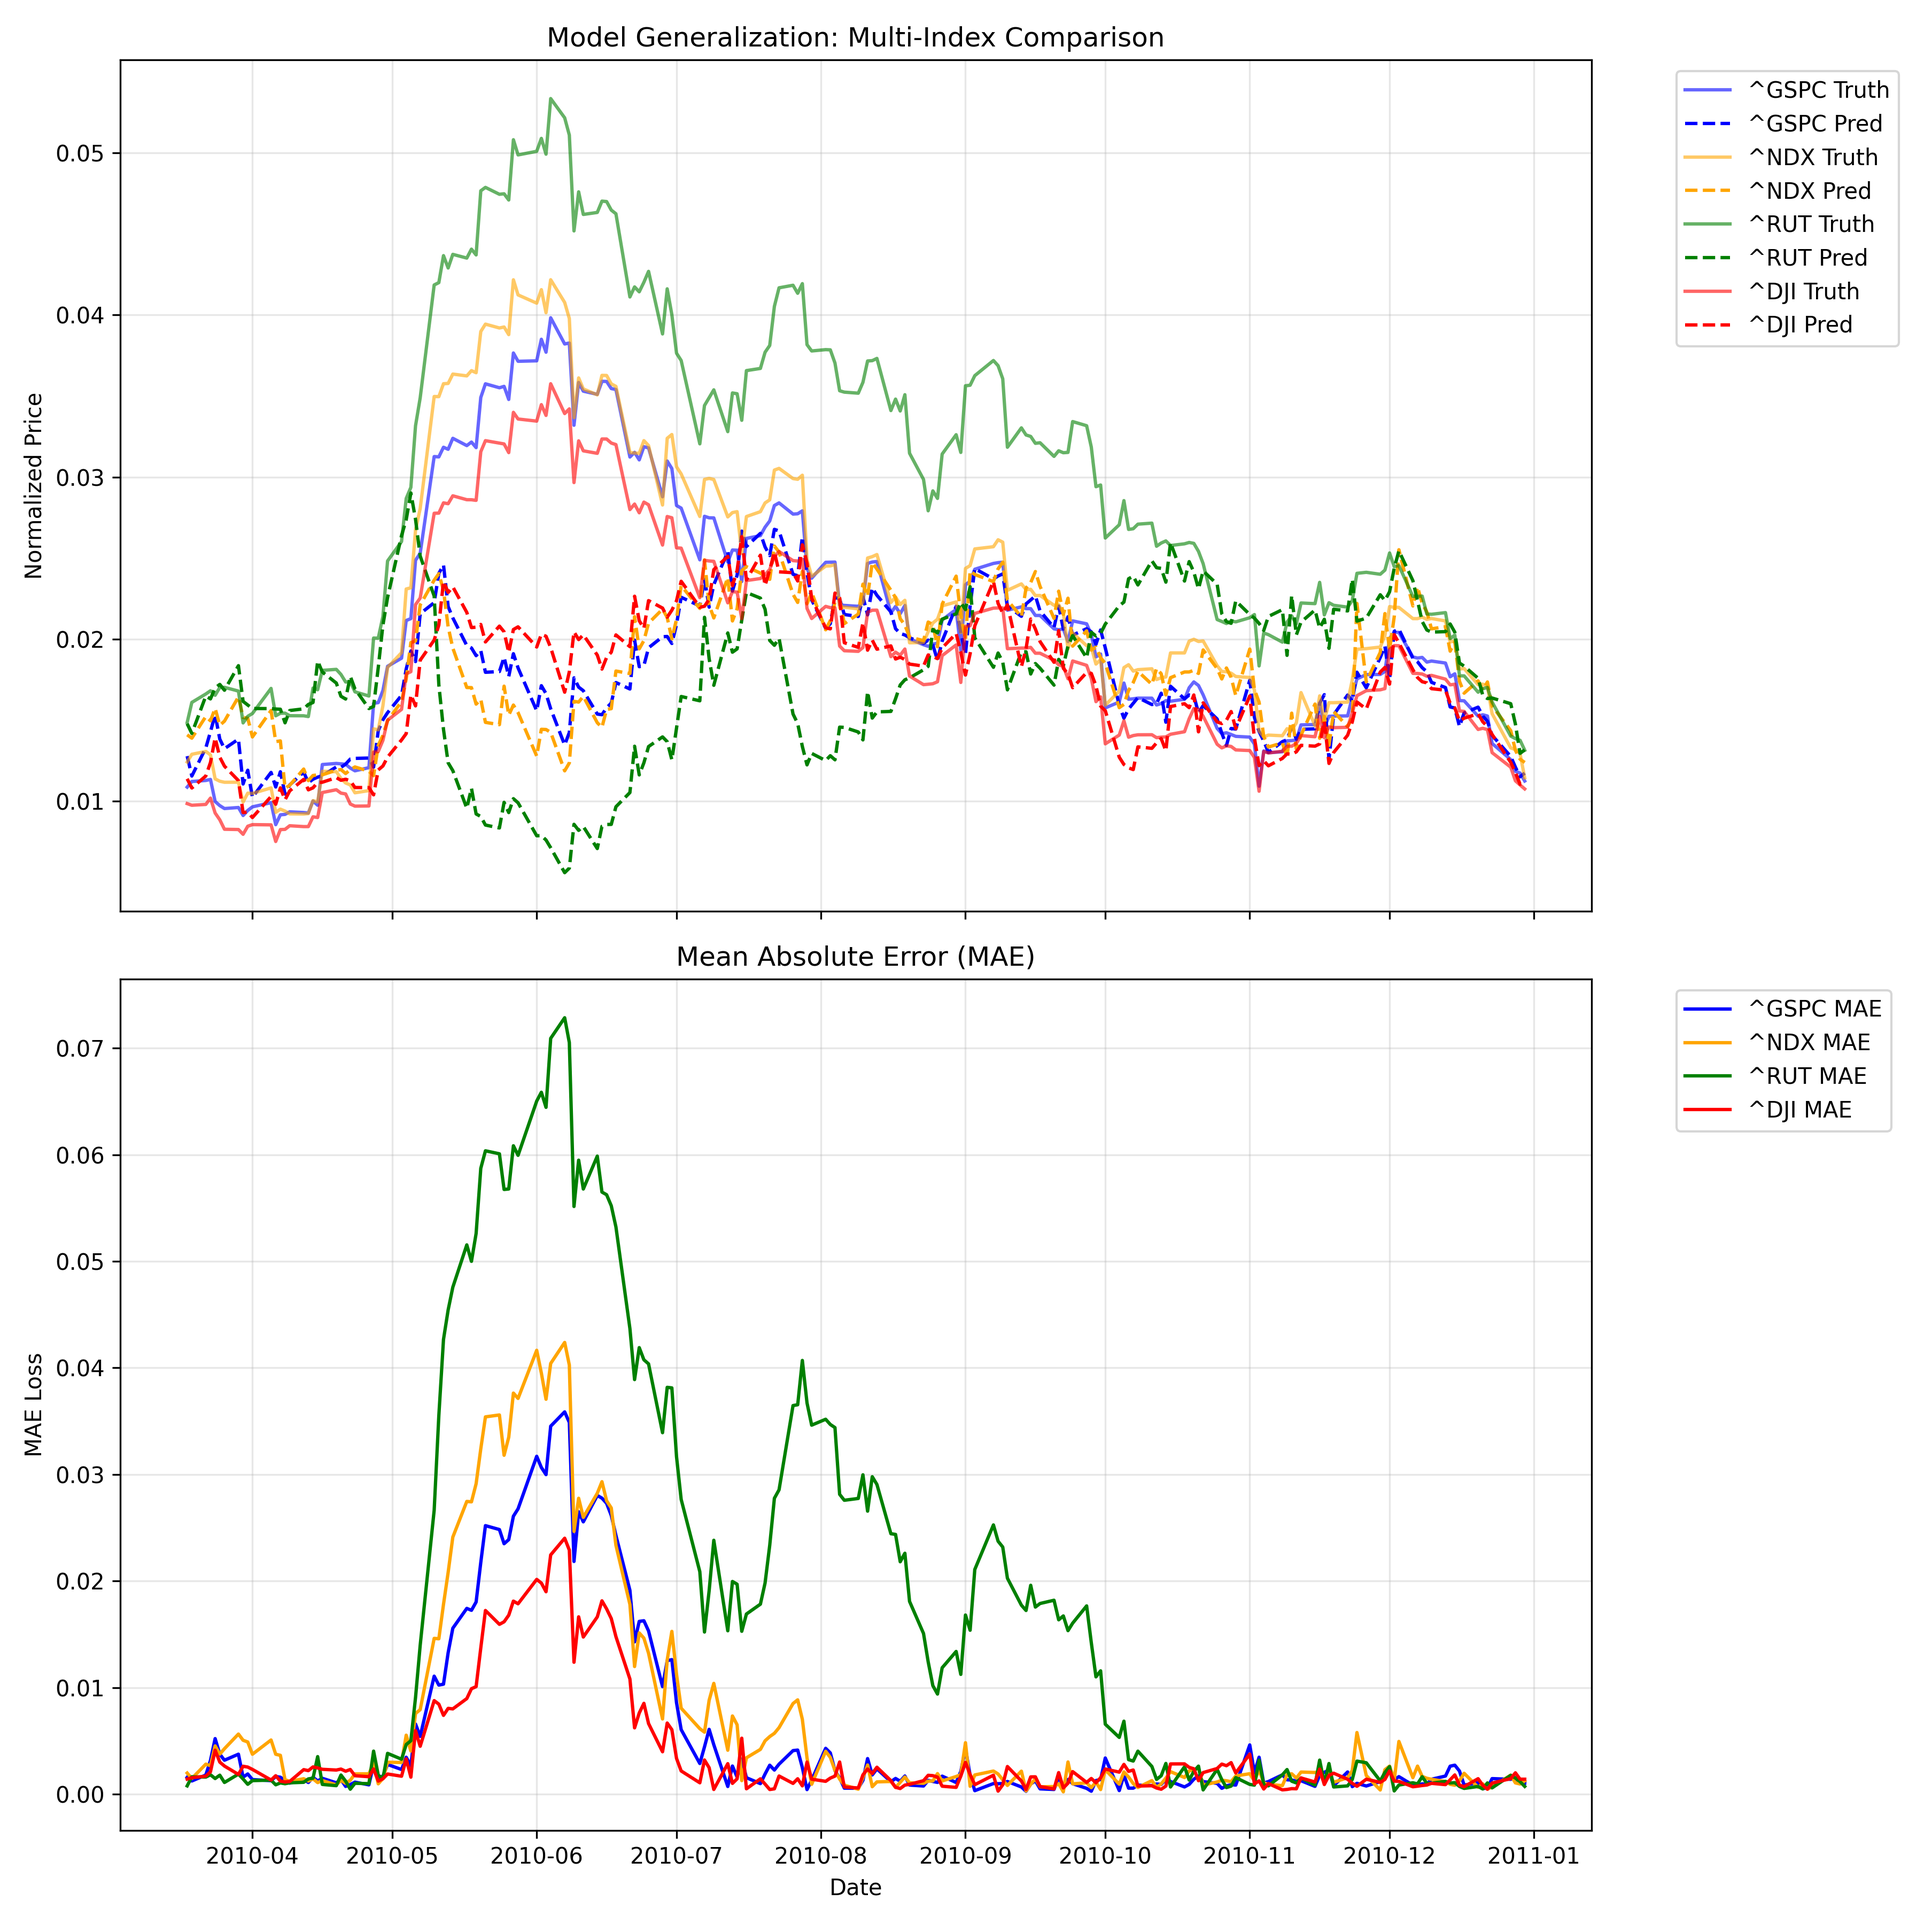
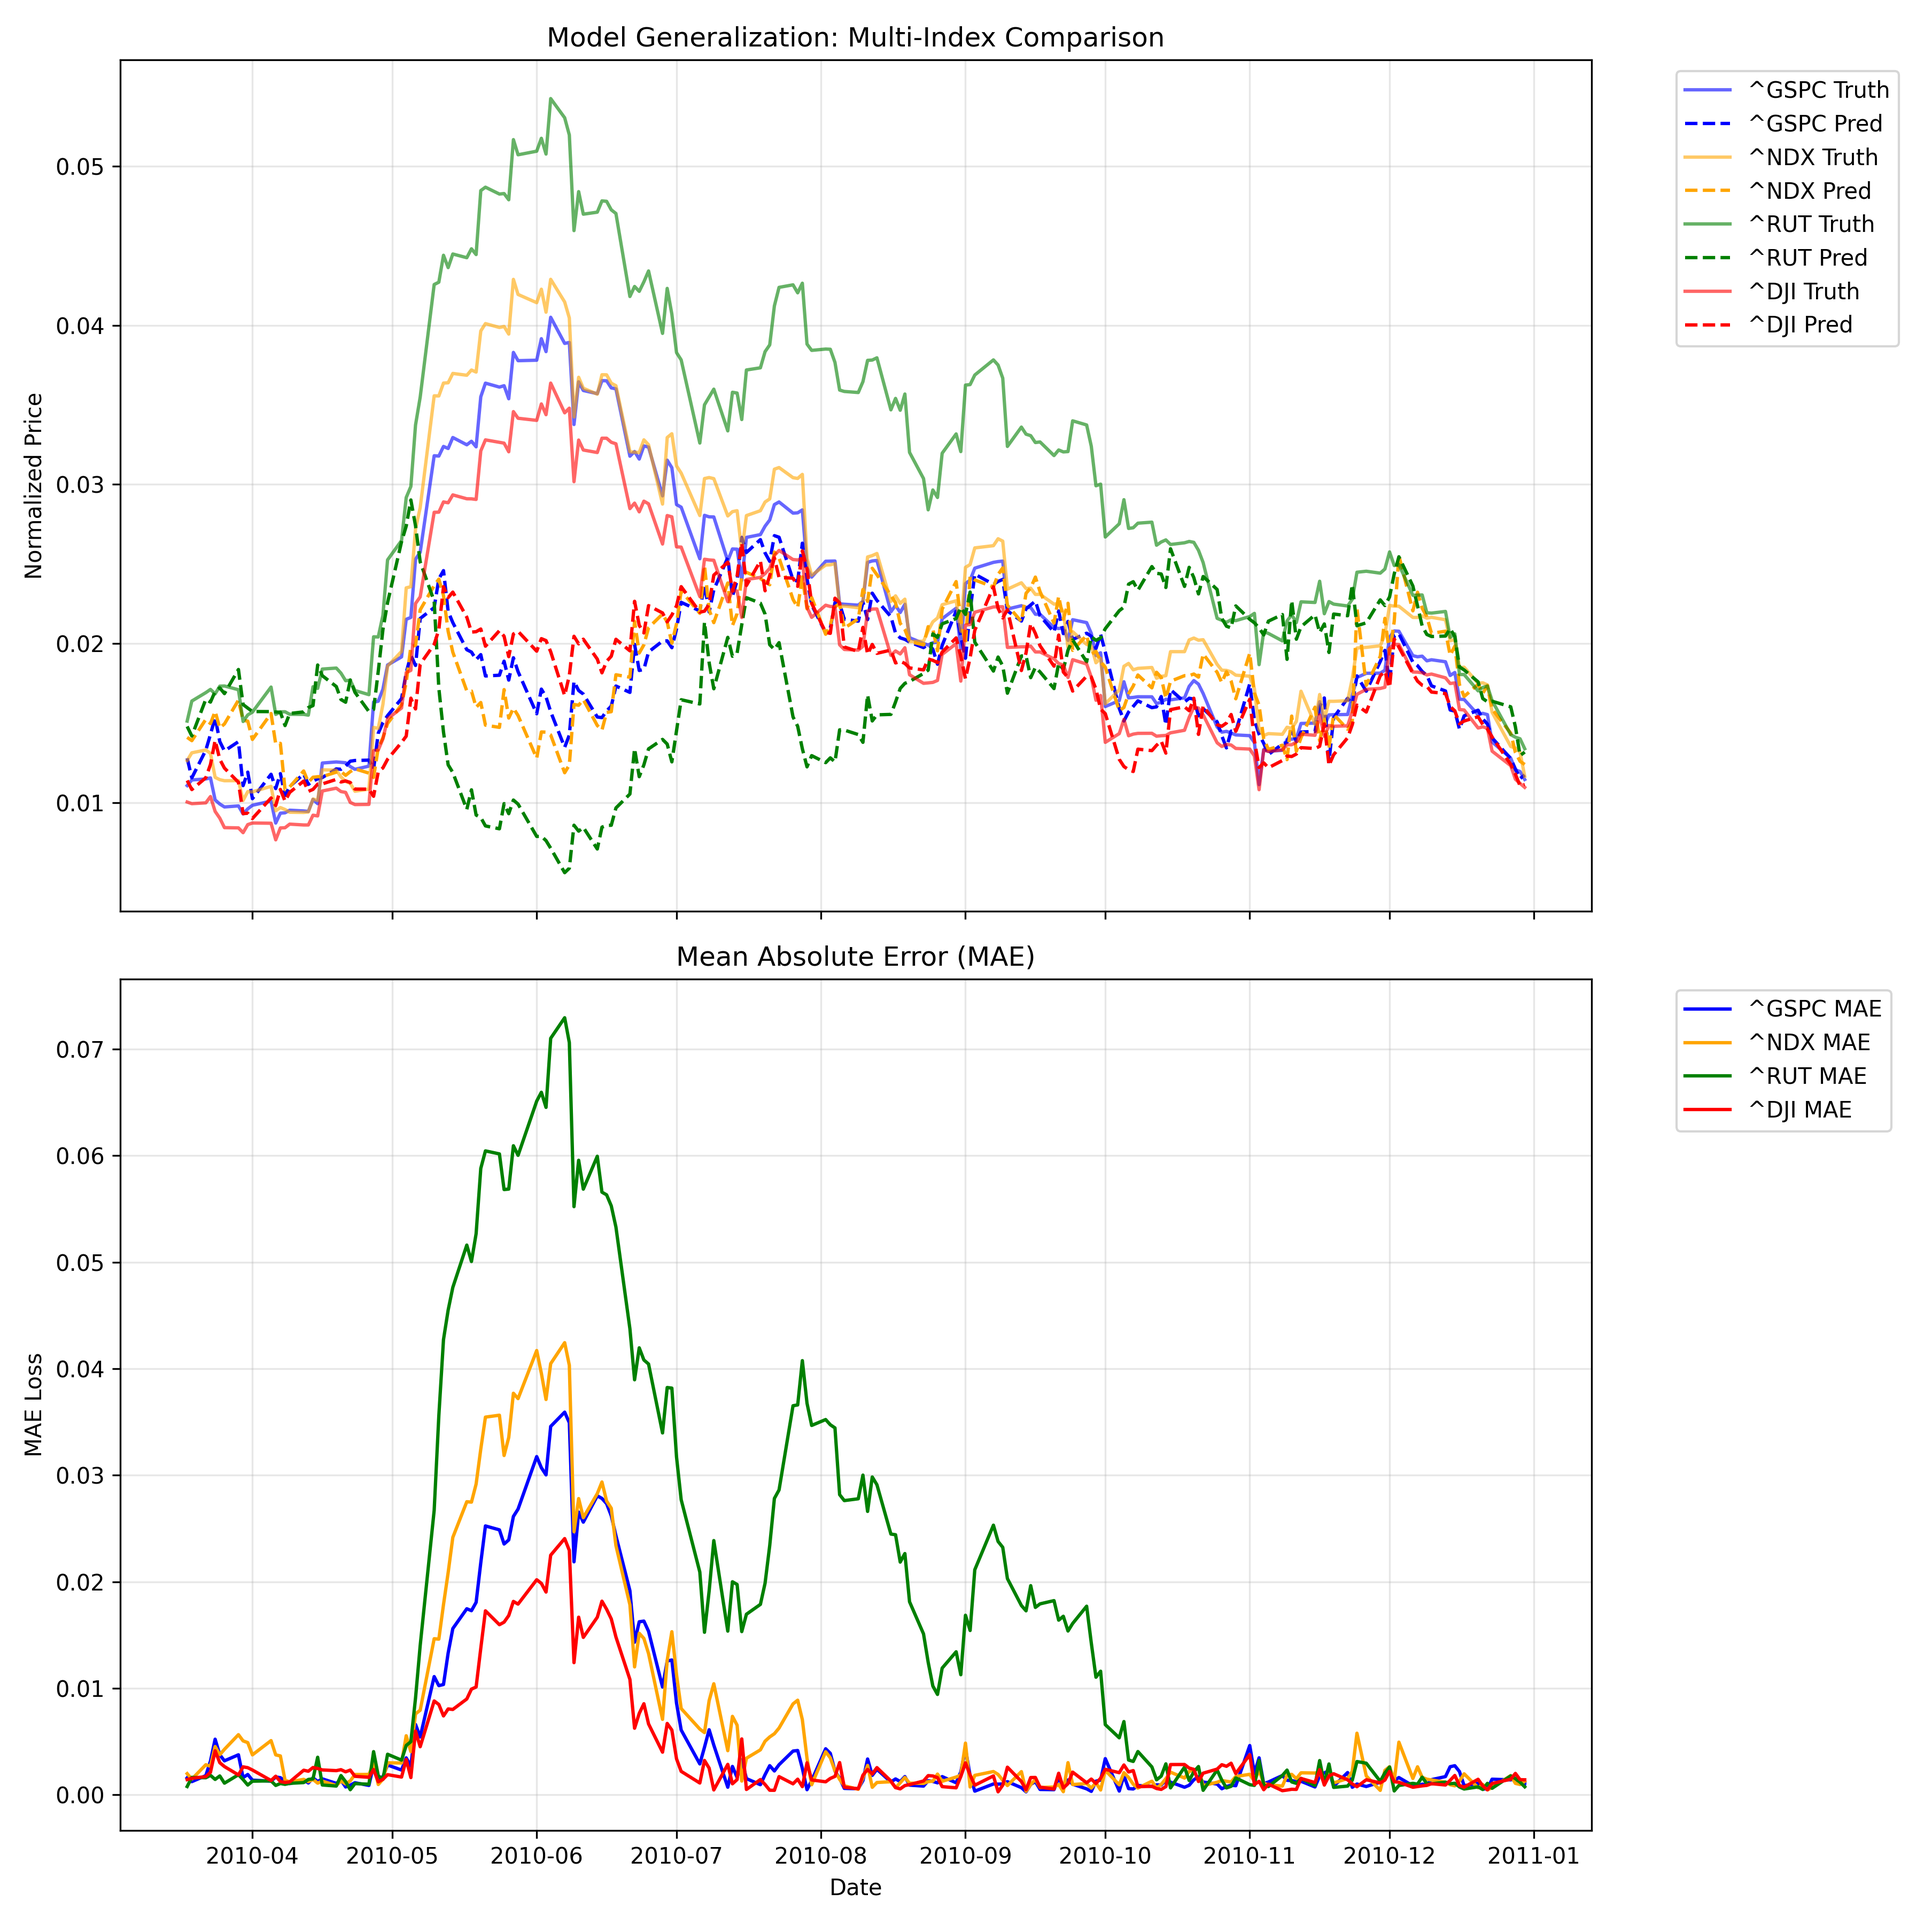
251125 new visualizations to better represent latent space

diff --git a/scripts/analysis.py b/scripts/analysis.py
@@ -3,6 +3,10 @@ import numpy as np
 import pandas as pd
 import matplotlib.pyplot as plt
 from mpl_toolkits.mplot3d import Axes3D
+import seaborn as sns
+from sklearn.decomposition import PCA
+from sklearn.manifold import TSNE
+from sklearn.preprocessing import StandardScaler
 import sys
 import os
 
@@ -98,77 +102,73 @@ def visualize_latent_space():
     plt.savefig('plots/latent_space_by_ticker.png', dpi=300)
     plt.close()
 
-    # 3. Trajectory (2023) - Just GSPC for clarity or all?
-    # Let's do GSPC for clarity in the main trajectory plot
-    print("Plotting Market Trajectory (GSPC 2023)...")
-    mask_gspc = (ticker_arr == '^GSPC')
-    dates_gspc = [d for i, d in enumerate(dates) if mask_gspc[i]]
-    z_gspc = z_arr[mask_gspc]
+    # --- Advanced Visualizations ---
 
-    mask_2023 = [str(d).startswith('2023') for d in dates_gspc]
-    z_2023 = z_gspc[mask_2023]
-
-    if len(z_2023) > 0:
-        fig = plt.figure(figsize=(10, 8))
-        ax = fig.add_subplot(111, projection='3d')
-        # Color by time index
-        for i in range(len(z_2023)-1):
-            ax.plot(z_2023[i:i+2,0], z_2023[i:i+2,1], z_2023[i:i+2,2],
-                    color=plt.cm.viridis(i/len(z_2023)))
-
-        ax.set_title("Market Trajectory (S&P 500 - 2023)")
-        ax.set_xlabel('Latent Dim 1')
-        ax.set_ylabel('Latent Dim 2')
-        ax.set_zlabel('Latent Dim 3')
-        sm = plt.cm.ScalarMappable(cmap='viridis', norm=plt.Normalize(vmin=0, vmax=len(z_2023)))
-        plt.colorbar(sm, label='Trading Days in 2023')
-        plt.savefig('plots/trajectory_2023.png', dpi=300)
-        plt.close()
-
-    # 4. Latent Landscape (Heatmap)
-    print("Generating Landscape...")
-    grid_size = 50
-    z1 = np.linspace(z_arr[:,0].min(), z_arr[:,0].max(), grid_size)
-    z2 = np.linspace(z_arr[:,1].min(), z_arr[:,1].max(), grid_size)
-    z3_mean = z_arr[:,2].mean()
-
-    Z1, Z2 = np.meshgrid(z1, z2)
-    prices = np.zeros((grid_size, grid_size))
-
-    for i in range(grid_size):
-        for j in range(grid_size):
-            z_vec = torch.tensor([[Z1[i,j], Z2[i,j], z3_mean]], dtype=torch.float32).to(device)
-            with torch.no_grad():
-                p = model.decoder(z_vec).cpu().numpy().flatten()
-            prices[i,j] = p[3] # ATM Price
+    # 3. PCA Projection (2D)
+    print("Generating PCA Projection...")
+    pca = PCA(n_components=2)
+    z_pca = pca.fit_transform(z_arr)
 
     plt.figure(figsize=(10, 8))
-    plt.contourf(Z1, Z2, prices, levels=50, cmap='viridis')
-    plt.colorbar(label='ATM Option Price')
-    plt.title('Latent Physics Landscape (ATM Price Surface)')
-    plt.xlabel('Latent Dim 1')
-    plt.ylabel('Latent Dim 2')
-    plt.savefig('plots/latent_landscape.png', dpi=300)
+    sc = plt.scatter(z_pca[:,0], z_pca[:,1], c=vol_arr, cmap='RdBu_r', alpha=0.6, s=10)
+    plt.colorbar(sc, label='Realized Volatility')
+    plt.title(f'PCA Projection of Latent Space (Explained Var: {pca.explained_variance_ratio_.sum():.2f})')
+    plt.xlabel('PC 1')
+    plt.ylabel('PC 2')
+    plt.savefig('plots/pca_projection.png', dpi=300)
     plt.close()
 
-    # 5. Velocity Field
-    print("Generating Velocity Field...")
-    # Use GSPC for velocity field to be consistent
-    dz = np.diff(z_gspc, axis=0)
-    z_start = z_gspc[:-1]
-    stride_v = 2 # Denser for GSPC specific
+    # 4. t-SNE Projection (2D)
+    print("Generating t-SNE Projection (this may take a moment)...")
+    # Subsample for t-SNE speed if needed, but ~4000 points is fine
+    tsne = TSNE(n_components=2, random_state=42, perplexity=30)
+    z_tsne = tsne.fit_transform(z_arr)
 
     plt.figure(figsize=(10, 8))
-    plt.quiver(z_start[::stride_v,0], z_start[::stride_v,1], dz[::stride_v,0], dz[::stride_v,1],
-               angles='xy', scale_units='xy', scale=1, color='blue', alpha=0.6)
-    plt.title('Latent Velocity Field (S&P 500 Flow)')
-    plt.xlabel('Latent Dim 1')
-    plt.ylabel('Latent Dim 2')
-    plt.grid(True, alpha=0.3)
-    plt.savefig('plots/latent_velocity.png', dpi=300)
+    sc = plt.scatter(z_tsne[:,0], z_tsne[:,1], c=vol_arr, cmap='RdBu_r', alpha=0.6, s=10)
+    plt.colorbar(sc, label='Realized Volatility')
+    plt.title('t-SNE Manifold Projection')
+    plt.xlabel('t-SNE 1')
+    plt.ylabel('t-SNE 2')
+    plt.savefig('plots/tsne_projection.png', dpi=300)
     plt.close()
 
-    print("Latent space visualizations saved.")
+    # 5. Parallel Coordinates Plot
+    print("Generating Parallel Coordinates Plot...")
+    # Create a DataFrame for plotting
+    # Normalize Z for better visualization if ranges differ wildly (though they shouldn't)
+    z_df = pd.DataFrame(z_arr, columns=[f'Z{i+1}' for i in range(z_arr.shape[1])])
+    z_df['Volatility'] = vol_arr
+    # Bin volatility for coloring lines
+    z_df['Regime'] = pd.qcut(z_df['Volatility'], q=4, labels=['Low', 'Medium', 'High', 'Extreme'])
+
+    plt.figure(figsize=(12, 6))
+    pd.plotting.parallel_coordinates(z_df.sample(500), 'Regime', colormap='viridis', alpha=0.5)
+    plt.title('Parallel Coordinates of Latent Dimensions by Volatility Regime')
+    plt.xlabel('Latent Dimension')
+    plt.ylabel('Value')
+    plt.savefig('plots/parallel_coordinates.png', dpi=300)
+    plt.close()
+
+    # 6. Correlation Heatmap
+    print("Generating Correlation Heatmap...")
+    # We need to align Z with original features (Returns, Vol)
+    # Re-construct a DF with Z and features
+    # Note: z_arr corresponds to the loop above. We need to grab the features from that loop.
+    # Ideally we should have saved them. Let's assume z_arr and vol_arr are aligned.
+    # We only have Vol saved. Let's use Vol.
+
+    corr_df = pd.DataFrame(z_arr, columns=[f'Latent_{i+1}' for i in range(z_arr.shape[1])])
+    corr_df['Realized_Vol'] = vol_arr
+
+    plt.figure(figsize=(8, 6))
+    sns.heatmap(corr_df.corr(), annot=True, cmap='coolwarm', vmin=-1, vmax=1)
+    plt.title('Latent Space Feature Correlation')
+    plt.tight_layout()
+    plt.savefig('plots/latent_correlation.png', dpi=300)
+    plt.close()
+
+    print("Advanced visualizations saved.")
 
 def compare_indices():
     """

diff --git a/GRAPHS.md b/GRAPHS.md
@@ -116,3 +116,52 @@ A cumulative return comparison of different trading strategies informed by the m
 
 ### Key Insight
 Demonstrates the practical utility of the learned latent representation for risk management and alpha generation.
+
+---
+
+## 8. PCA Projection (2D)
+**File:** `plots/pca_projection.png`
+
+### What it is
+A projection of the high-dimensional latent space onto its first two Principal Components. Points are colored by Realized Volatility.
+
+### How to Read It
+- **Axes:** PC1 and PC2 represent the directions of maximum variance in the latent space.
+- **Gradient:** A smooth color gradient from Blue (Low Vol) to Red (High Vol) along PC1 indicates that the primary factor learned by the model is indeed volatility.
+- **Spread:** The spread along PC2 indicates secondary features (possibly skew or kurtosis).
+
+---
+
+## 9. t-SNE Manifold Projection
+**File:** `plots/tsne_projection.png`
+
+### What it is
+A non-linear projection of the latent manifold into 2D using t-Distributed Stochastic Neighbor Embedding.
+
+### How to Read It
+- **Clusters:** t-SNE preserves local neighborhoods. Distinct clusters indicate distinct market "regimes" that are topologically separated.
+- **Continuity:** If the points form a continuous "snake" or curve, it suggests the market moves smoothly between states rather than jumping between discrete clusters.
+
+---
+
+## 10. Parallel Coordinates Plot
+**File:** `plots/parallel_coordinates.png`
+
+### What it is
+A visualization of the latent vector values ($Z_1, Z_2, Z_3$) for different volatility regimes. Each line represents a single day's market state.
+
+### How to Read It
+- **Disentanglement:** If "High Volatility" lines (Yellow) all have high $Z_1$ and low $Z_2$, while "Low Volatility" lines (Purple) have low $Z_1$, it means $Z_1$ is disentangled and represents volatility.
+- **Crossing Lines:** If lines cross chaotically, the dimensions are entangled.
+
+---
+
+## 11. Latent Feature Correlation Heatmap
+**File:** `plots/latent_correlation.png`
+
+### What it is
+The correlation matrix between the learned Latent Dimensions and the physical "Realized Volatility".
+
+### How to Read It
+- **Feature Attribution:** If `Latent_1` has a +0.9 correlation with `Realized_Vol`, we can scientifically claim that the model has "discovered" volatility as a primary factor.
+- **Independence:** Low correlation between latent dimensions (off-diagonal elements close to 0) indicates an efficient, orthogonal encoding.
